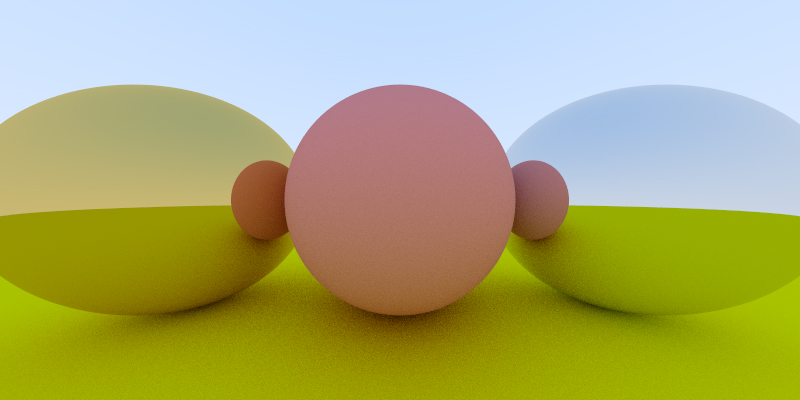
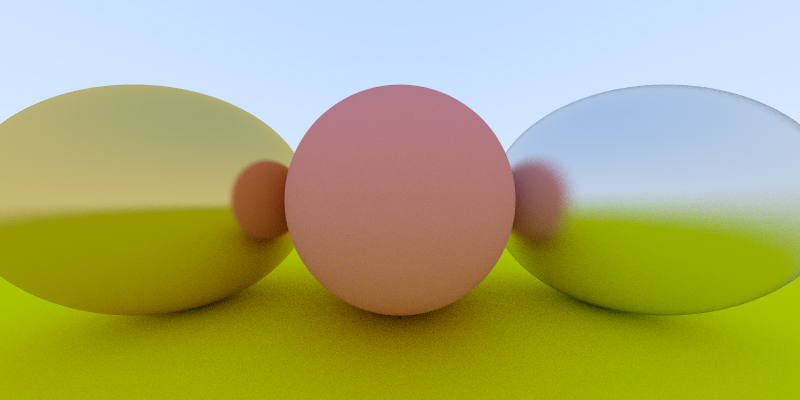
Added fuzziness to metals

diff --git a/main.cpp b/main.cpp
@@ -20,7 +20,7 @@ vec3 color(const ray& r, hitable *world, int depth) {
     if (world->hit(r, 0.001, MAXFLOAT, rec)) {  // slightly >0 to remove shadow-acne
         ray scattered;
         vec3 attenuation;
-        if (depth < 50 && rec.mat_ptr->scatter(r, rec, attenuation, scattered)) {
+        if (depth < 10 && rec.mat_ptr->scatter(r, rec, attenuation, scattered)) {
             return attenuation*color(scattered, world, depth+1);
         }
         return vec3(0, 0, 0);
@@ -55,8 +55,8 @@ int main() {
 
     hitable *list[4];
     list[0] = new sphere(vec3(0, -100.5, -1), 100, new lambertian(vec3(0.8, 0.8, 0.0)));
-    list[1] = new sphere(vec3(-1, 0, -1), 0.5, new metal(vec3(0.8, 0.6, 0.2)));
-    list[2] = new sphere(vec3(1, 0, -1), 0.5, new metal(vec3(0.8, 0.8, 0.8)));
+    list[1] = new sphere(vec3(-1, 0, -1), 0.5, new metal(vec3(0.8, 0.6, 0.2), 0.1));
+    list[2] = new sphere(vec3(1, 0, -1), 0.5, new metal(vec3(0.8, 0.8, 0.8), 0.3));
     list[3] = new sphere(vec3(0, 0, -1), 0.5, new lambertian(vec3(0.8, 0.3, 0.3)));
     hitable *world = new hitable_list(list, 4);
 

diff --git a/metal.h b/metal.h
@@ -10,14 +10,15 @@
 
 class metal: public material {
 public:
-    metal(const vec3& a): albedo(a) {};
+    metal(const vec3& a, const float f): albedo(a) {fuzz = fmin(1.0, f);};
     virtual bool scatter(const ray& r_in, const hit_record& rec, vec3& attenuation, ray& scattered) const {
         vec3 reflected = reflect(unit_vector(r_in.direction()), rec.normal);
-        scattered = ray(rec.p, reflected);
+        scattered = ray(rec.p, reflected+fuzz*random_in_unit_sphere());
         attenuation = albedo;
-        return true;
+        return (dot(scattered.direction(), rec.normal) > 0);
     }
     vec3 albedo;
+    float fuzz;
 };
 
 #endif //RAY_TRACER_METAL_H
